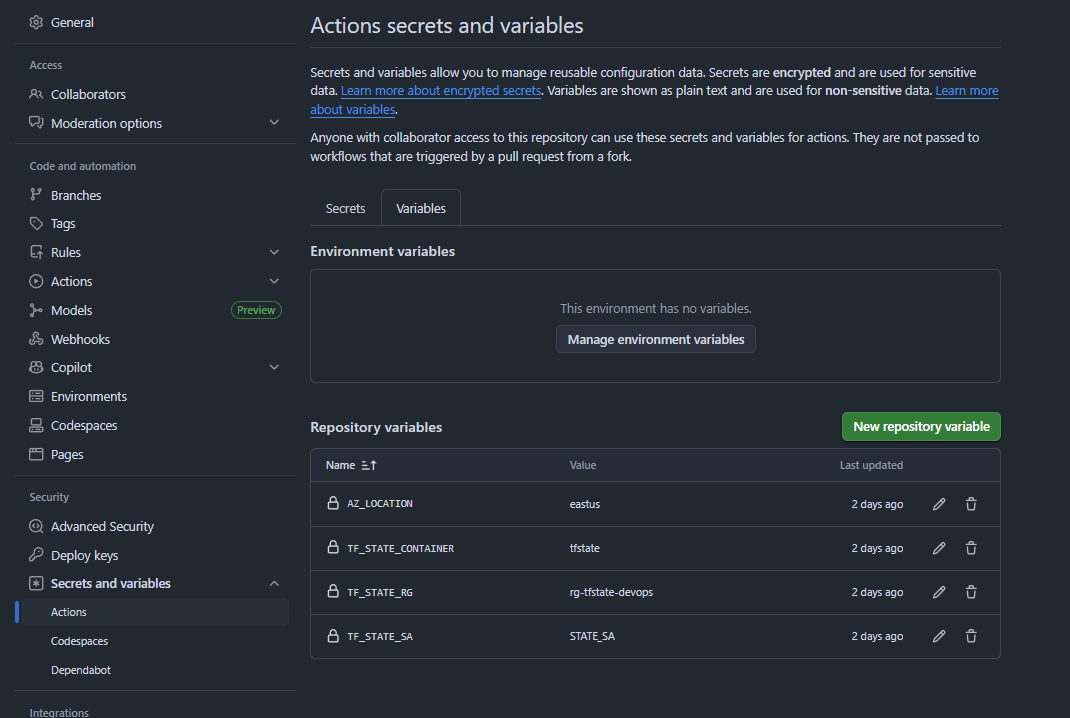
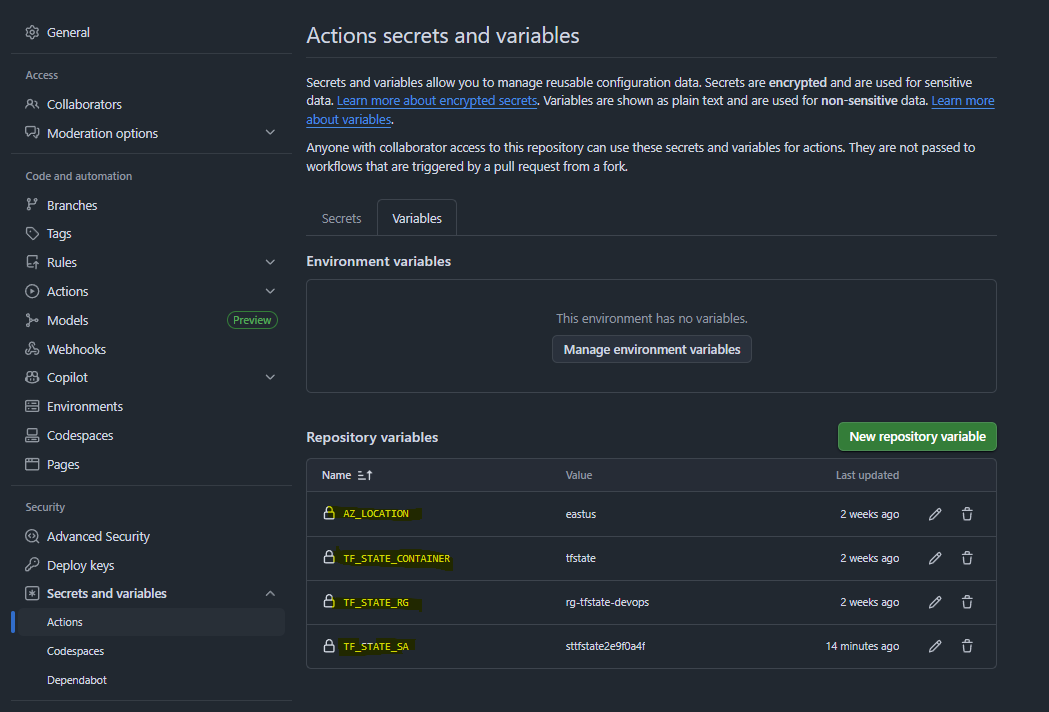
mejora de readme.md

diff --git a/README.md b/README.md
@@ -47,19 +47,23 @@ Este repositorio aprovisiona la infraestructura requerida para la aplicación qu
 ![Análisis de Costos](./assets/img/13.png)
 
 ## Entornos
+
+Se tiene 2 entornos para este proyecto:
+
 - **DEV**: cualquier push a ramas `dev/**` despliega en DEV
 - **PROD**: merge a `main` despliegan en PROD (se recomienda mantener habilitada la aprobación de GitHub Environment)
 
-    Nota: El estado remoto de Terraform usa llaves separadas:
+El estado remoto de Terraform usa llaves separadas:
+
 - `dev/infra.tfstate`
 
    ![Llave en DEV definida en el archivo backends/dev.hcl](./assets/img/7.png)
-    [Ir al archivo backends/dev.hcl](./backends/dev.hcl)
+    Ir al archivo [backends/dev.hcl](./backends/dev.hcl)
 
 - `prod/infra.tfstate`
 
    ![Llave en PROD definida en el archivo backends/prod.hcl](./assets/img/8.png)
-    [Ir al archivo backends/prod.hcl](./backends/prod.hcl)
+    Ir al archivo [backends/prod.hcl](./backends/prod.hcl)
 
 ## Setup del proyecto
 
@@ -101,27 +105,20 @@ Después ejecutarlo:
 ```
 Nota: Este Script crea los recursos del **State (backend)** mencionados arriba.
 
-Al final imprime las siguientes variables como información del backend en Terraform:
+Al final imprime las siguientes variables del backend en Terraform:
 - `STATE_RG=rg-tfstate-devops`
 - `STATE_SA=sttfstateXXXX`
 - `STATE_CONTAINER=tfstate`
 
-Exportarlas en tu terminal en la ubicación del proyecto de la siguiente manera:
-```bash
-export STATE_RG=rg-tfstate-devops
-export STATE_SA=sttfstateXXXX
-export STATE_CONTAINER=tfstate
-```
-Nota: el valor de `STATE_SA=sttfstateXXXX` debes reemplazarlo por el nombre que te da como resultado la ejecución del script, es decir, las `XXX` son valores generados por el siguiente bloque de codigo del que hace que sea un nombre único y global:
+Nota: Estas variables se deben setear en el backend HCL y en GitHub  Variables de repositorio así que guardarlas.
 
-```bash
-# Nombre único global (solo minúsculas y números, 3-24 chars)
-# Puedes forzarlo exportando STATE_SA antes de correr el script
-if [[ -z "${STATE_SA:-}" ]]; then
-  RAND="$(openssl rand -hex 4)"
-  STATE_SA="sttfstate${RAND}"
-fi
-```
+Setearlas manualmente en el archivo backends/dev.hcl
+![Setearlas manualmente en el archivo backends/dev.hcl](./assets/img/14.png)
+
+Setearlas manualmente en el archivo backends/prod.hcl
+![Setearlas manualmente en el archivo backends/dev.hcl](./assets/img/14.png)
+
+En el punto 6 se observa como guardar estas variables en el repositorio de Github.
 
 **3. Configuración de Environments en GitHub**
 
@@ -152,12 +149,10 @@ Después ejecutarlo:
 ./scripts/bootstrap-oidc.sh
 ```
 
-Al final, imprime las variables necesarias para *GitHub Secrets*:
+Al final, imprime las variables necesarias para *GitHub Secrets*, debes guardarlas:
 - `AZURE_CLIENT_ID` → el APP_ID de la aplicación.
 - `AZURE_TENANT_ID` → el Tenant ID de tu Azure AD.
 - `AZURE_SUBSCRIPTION_ID` → el ID de la suscripción.
-
-Nota: Estas se deben guardar en GitHub > Settings > Secrets & Variables > Actions > Repository Secrets para que los workflows las usen.
 
 **5. Creación de Secrets en GitHub**
 
@@ -165,12 +160,14 @@ Crear los siguientes Secrets (obtenidas en el anterior paso) con sus respectivos
 
 ![Configuración de secrets](./assets/img/2.png)
 
-Y en Actions > Variables, crear las siguientes:
+**6. Creación de Variables en GitHub**
+
+En Actions > Variables, crear las siguientes:
 
 - `AZ_LOCATION` → eastus
 - `TF_STATE_CONTAINER` → tfstate
 - `TF_STATE_RG` → rg-tfstate-devops
-- `TF_STATE_SA` → STATE_SA
+- `TF_STATE_SA` → sttfstateXXXX
 
 ![Configuración de variables.](./assets/img/3.png)
 
@@ -187,7 +184,7 @@ Resultado:
 
 ![Pasando a prod, se necesita un approve en apply.](./assets/img/5.png)
 
-[Ver el Pipeline en .github/workflows/terraform.yml](./.github/workflows/terraform.yml.github/workflows/terraform.yml)
+Ver el Pipeline en [.github/workflows/terraform.yml](./.github/workflows/terraform.yml.github/workflows/terraform.yml)
 
 ## Outputs de Terraform 
 *Estos Outputs son necesarios para el repositorio de la aplicación.*
